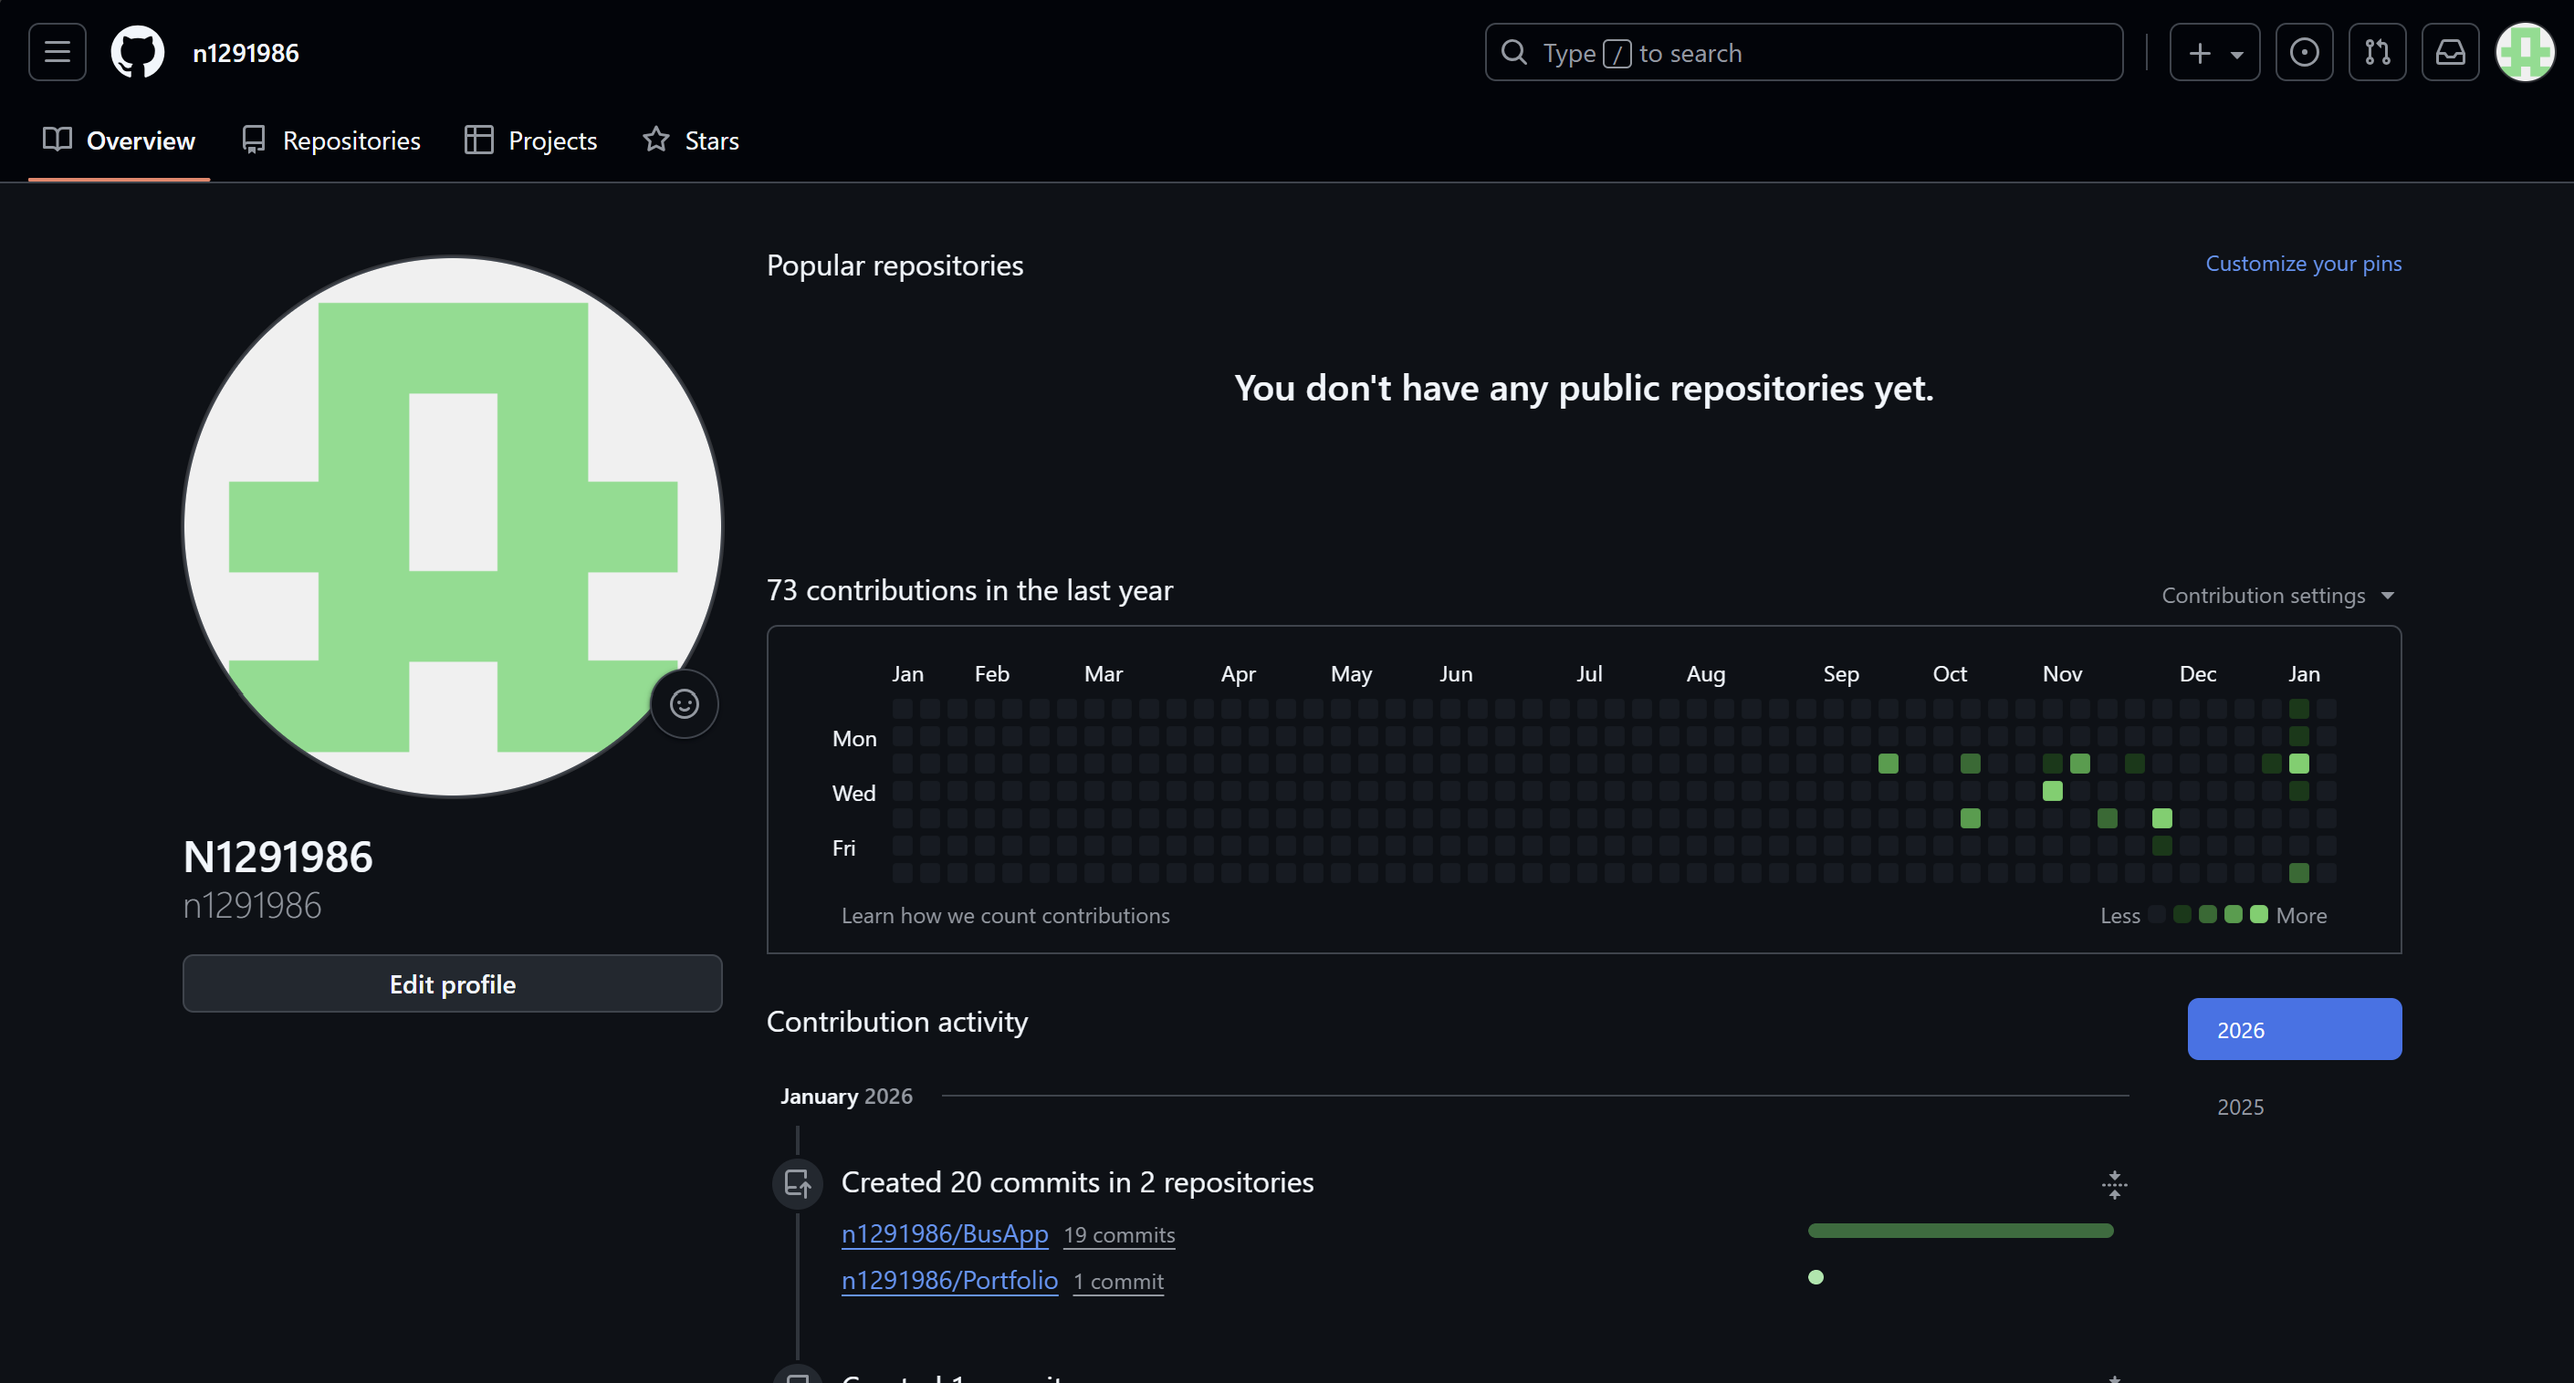
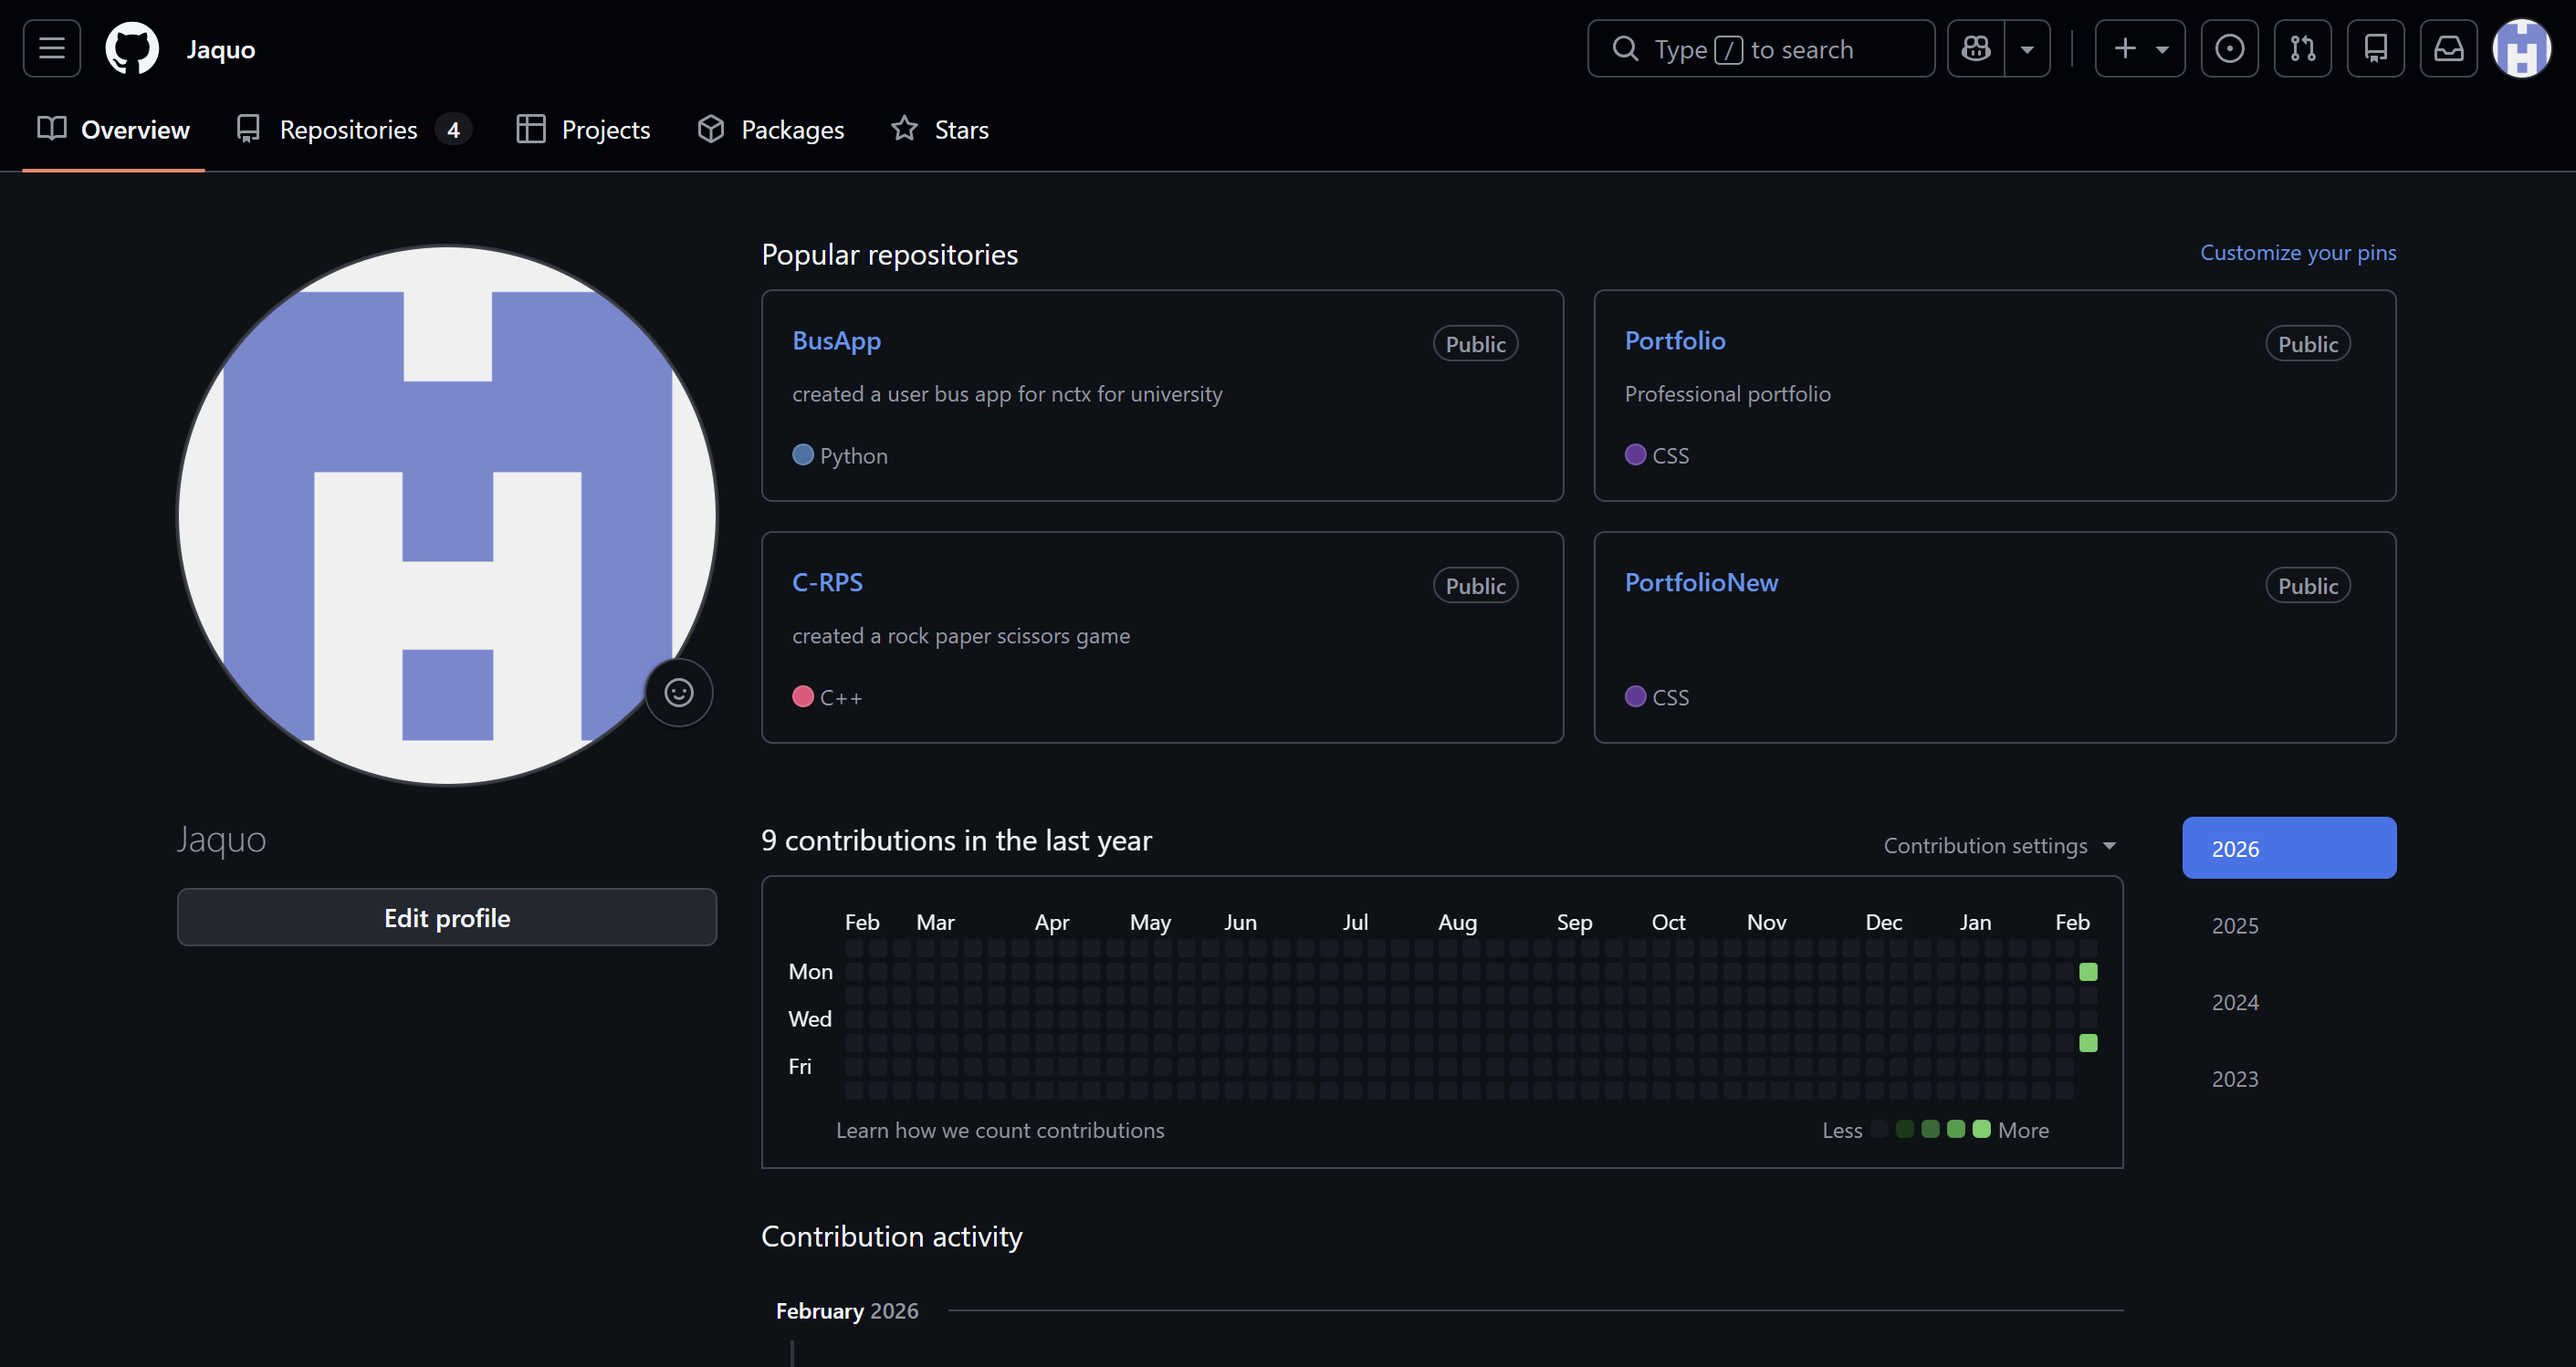
spelling and img fix

diff --git a/learning.html b/learning.html
@@ -28,7 +28,7 @@
         <div class="learning-log"> 
             <div class="log-entry">
                  <h3>Learning Python</h3>
-                  <p>Started learning Python in January 2024. Completed built small projects to practice my skills.</p>
+                  <p>I started learning Python in January 2024.I Completed and built small projects to practice my skills.</p>
             </div> 
                 <div class="log-entry"> 
                 <h3>Building a Bus Ticket App</h3> 
